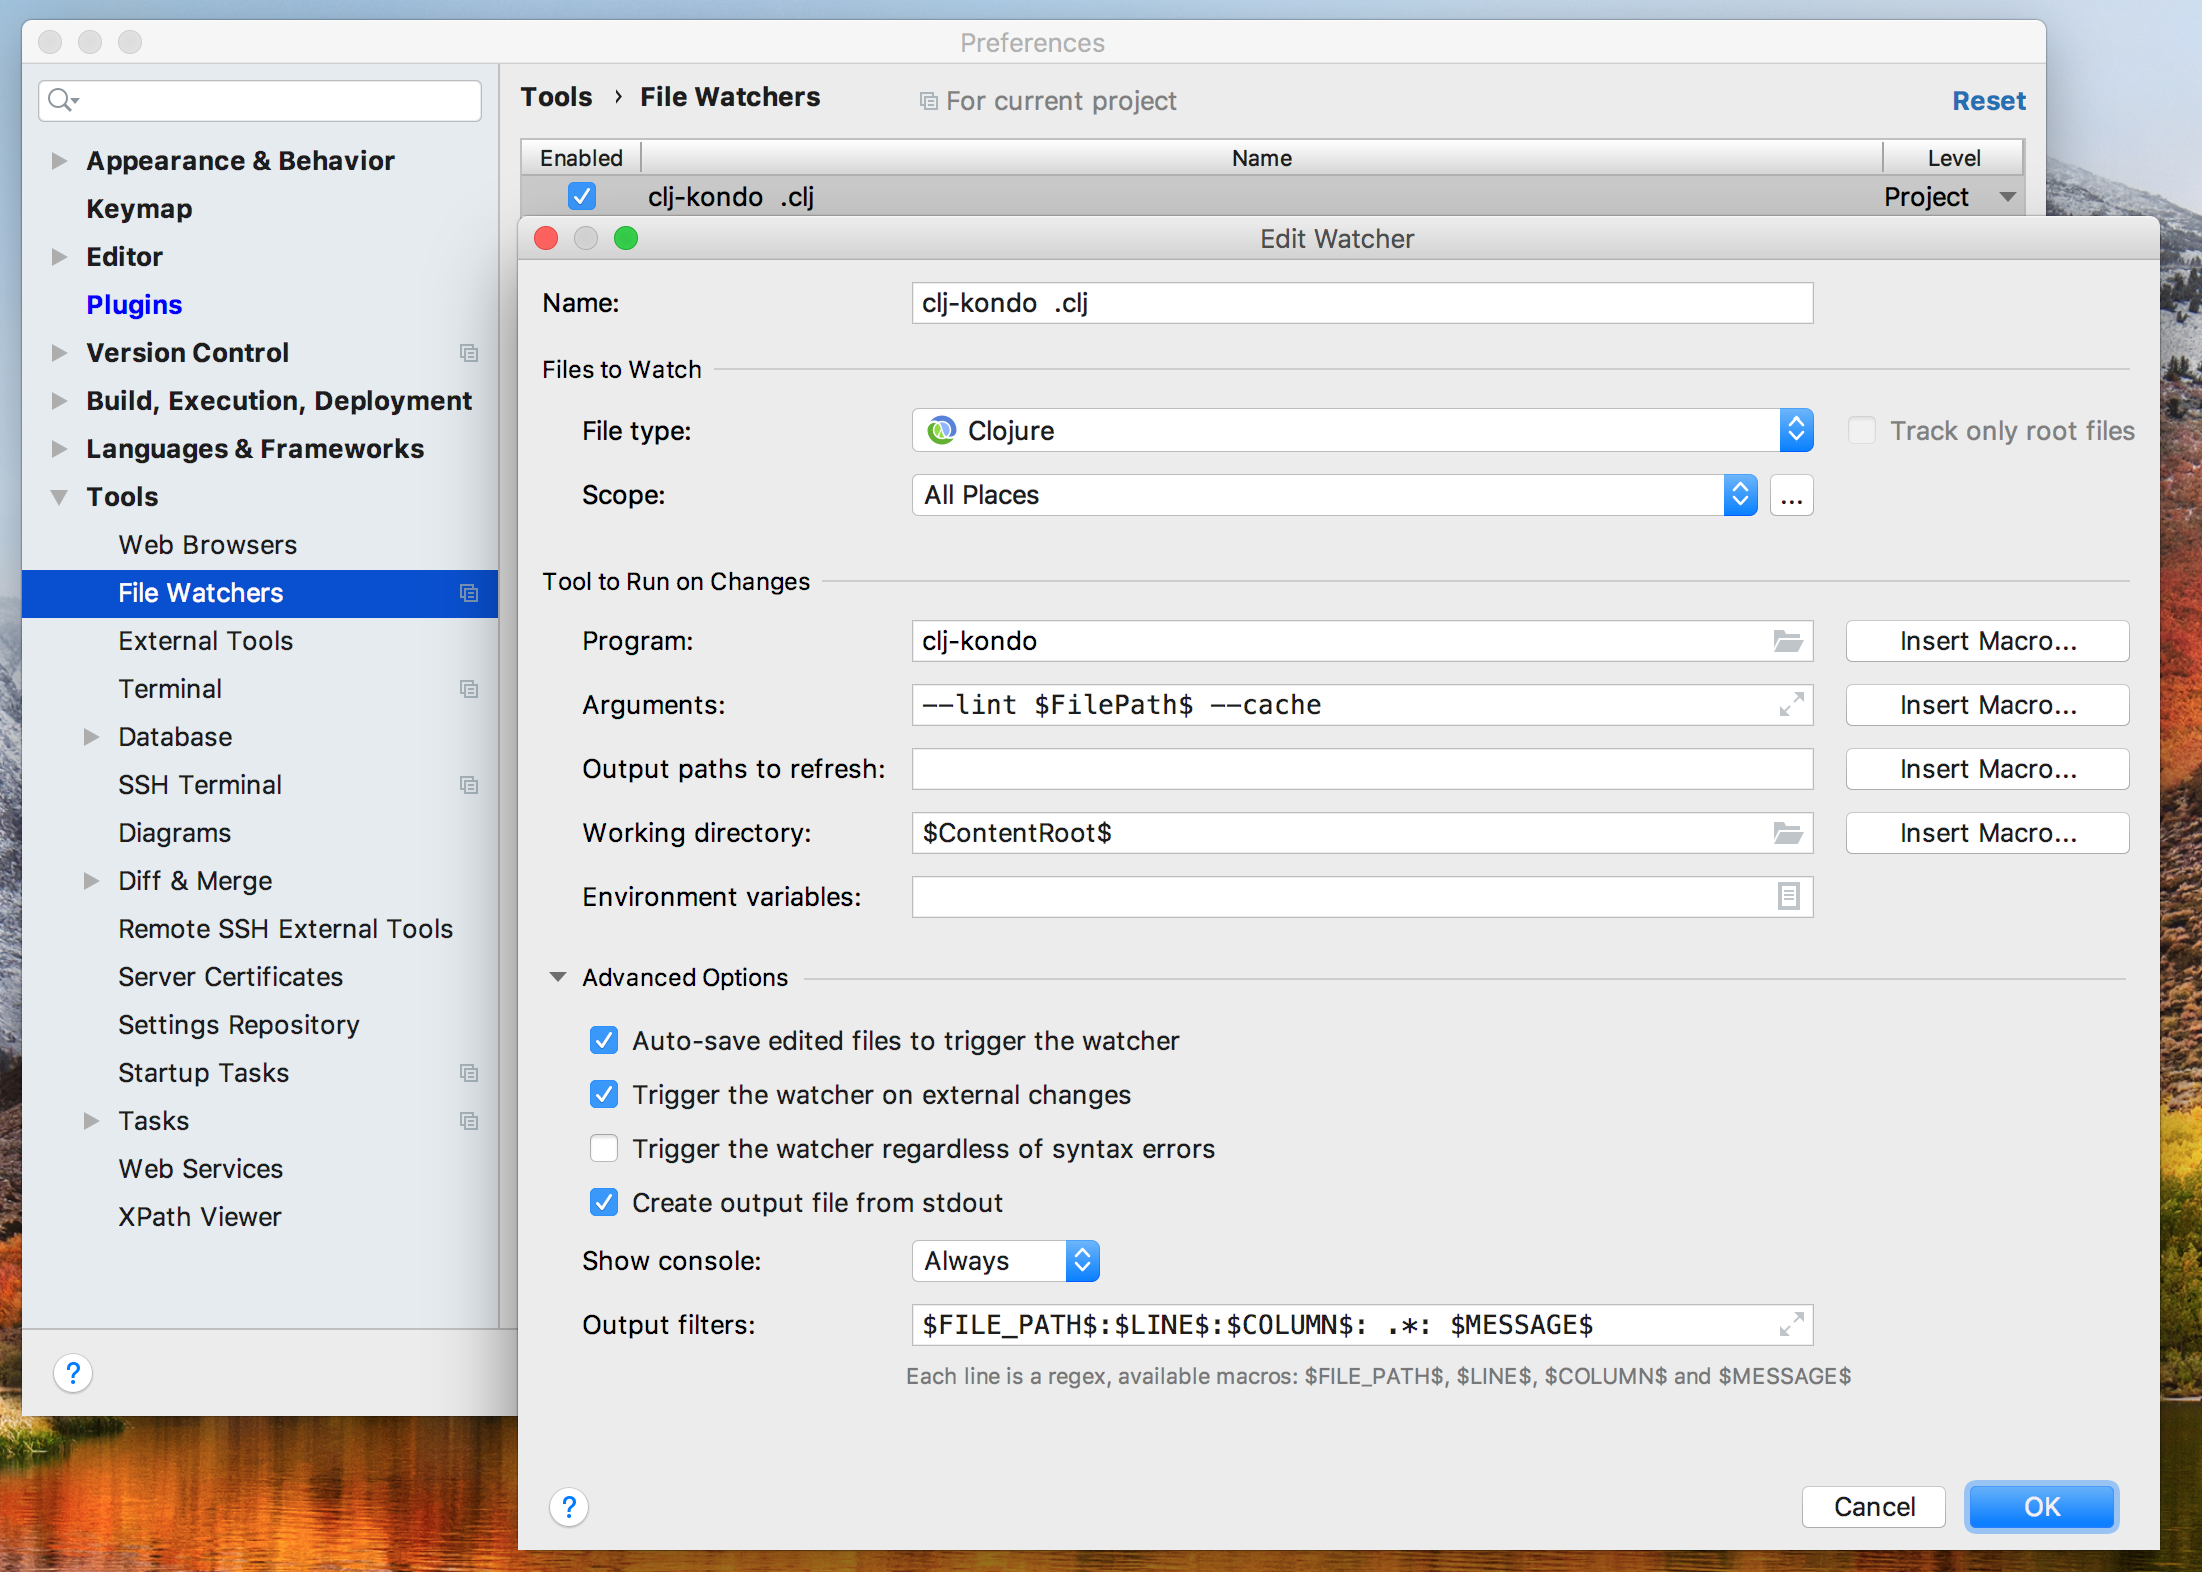
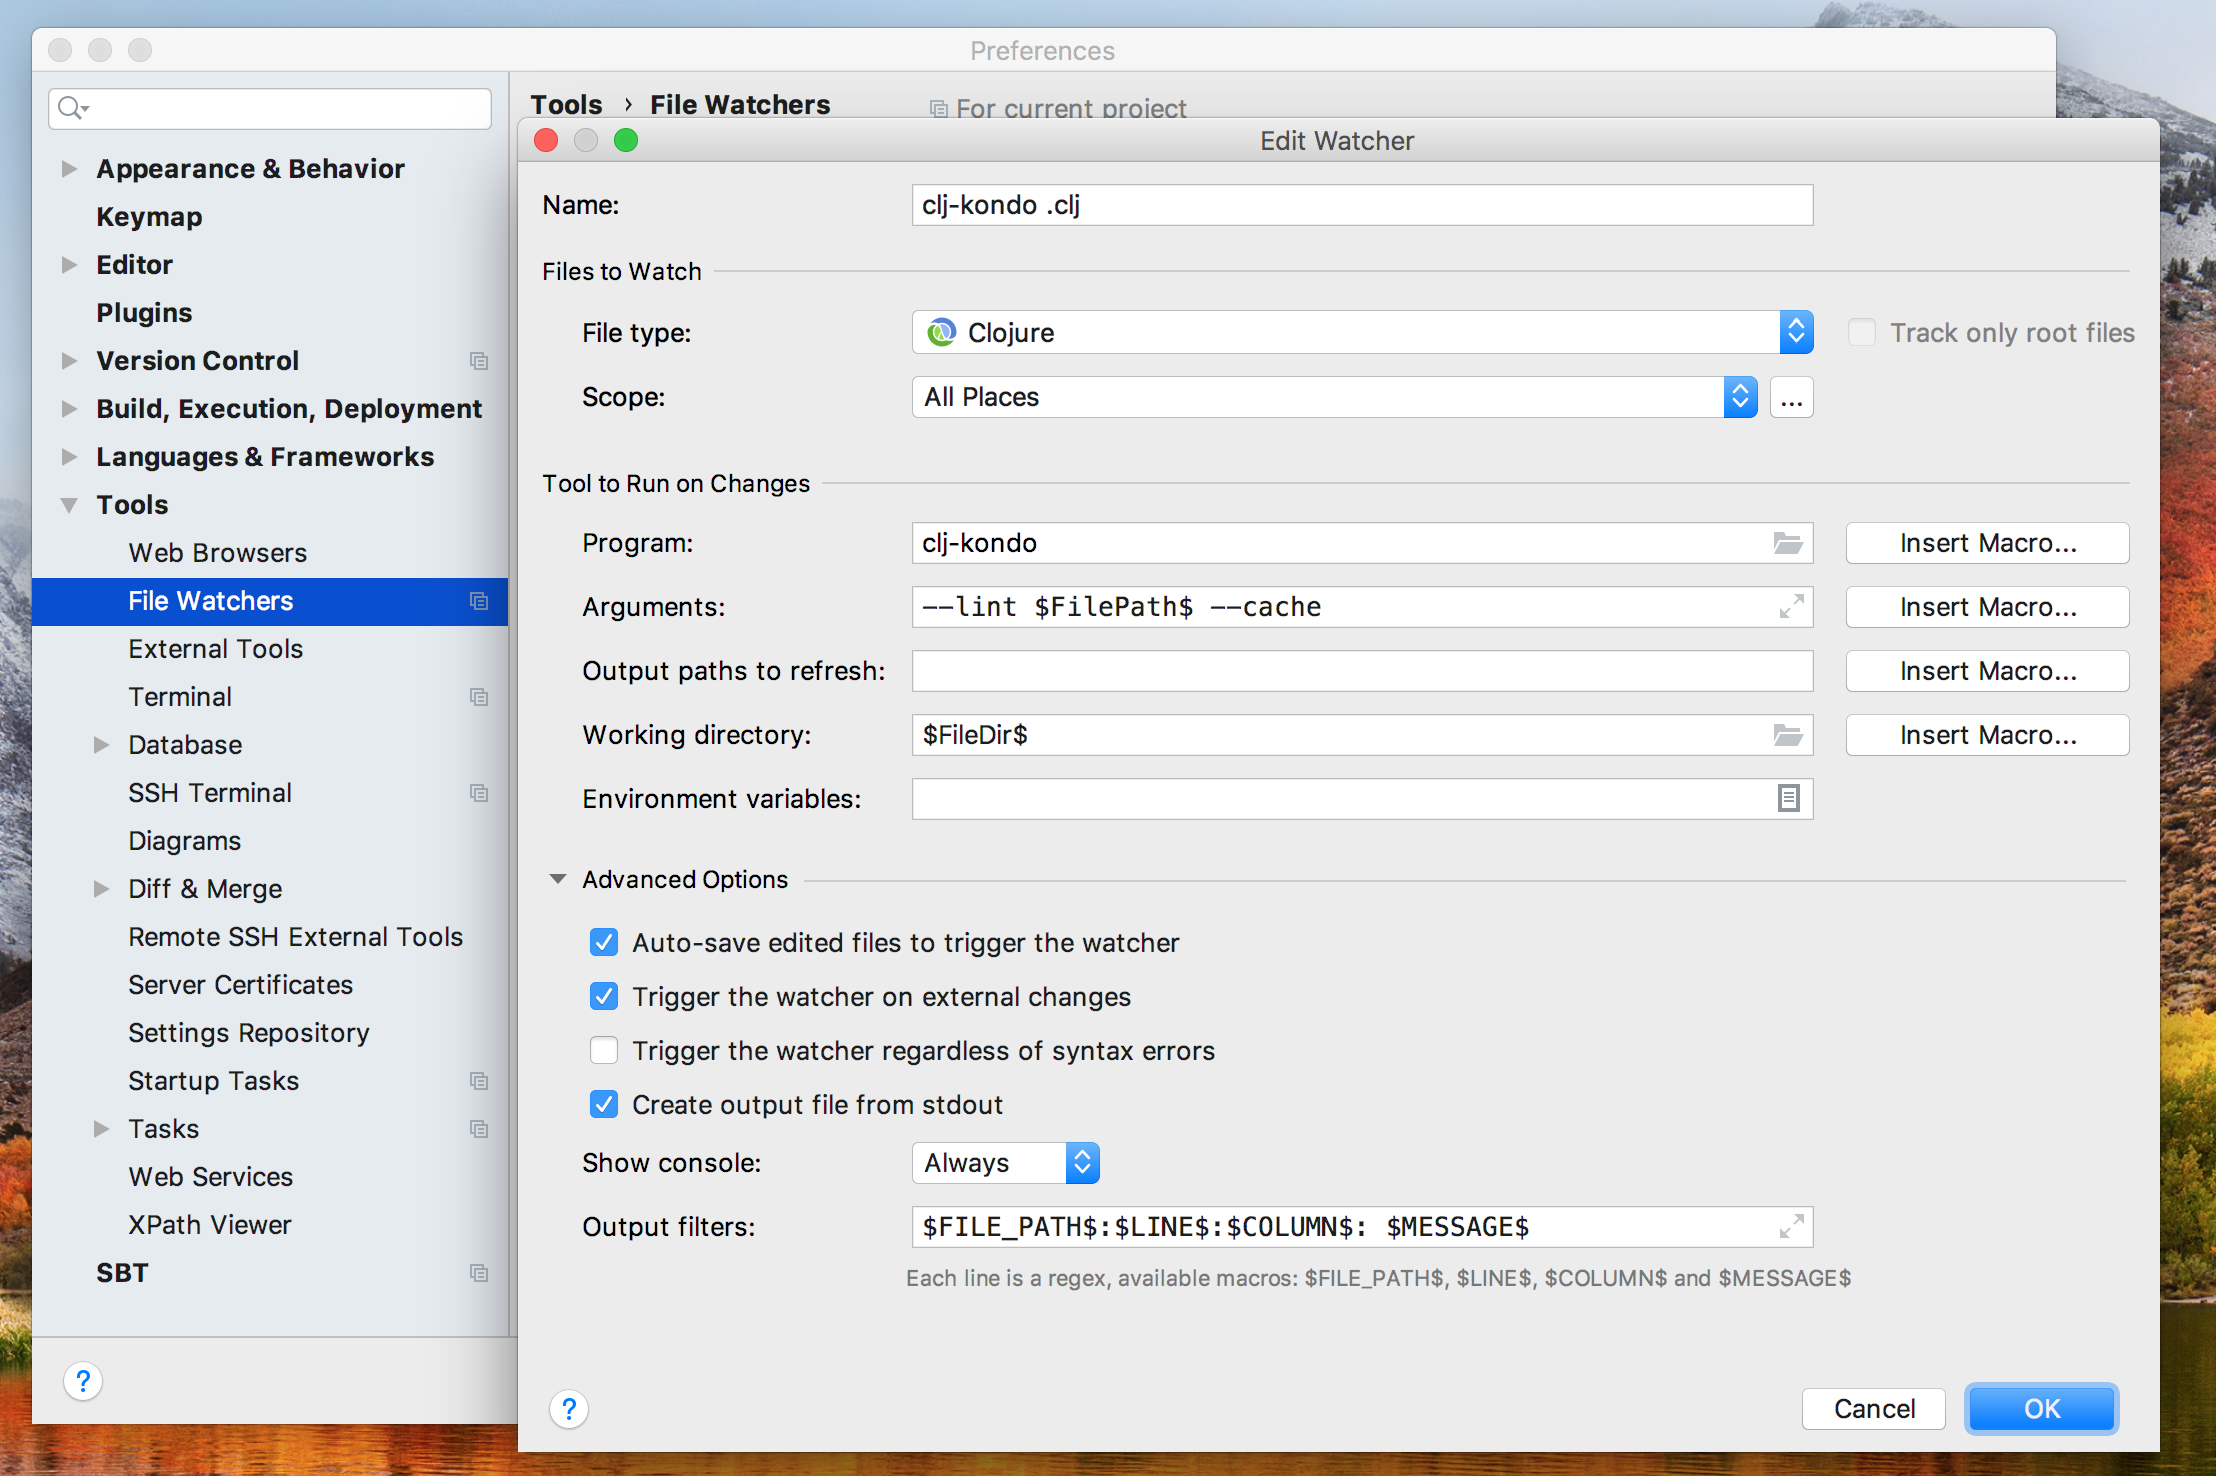
minor improvements

Changed region(s): [[0.0, 0.0, 1.0, 1.0], [0.3706, 0.9661, 0.525, 1.0]]

diff --git a/doc/editor-integration.md b/doc/editor-integration.md
@@ -1,7 +1,8 @@
 # Editor integration
 
-Before setting up your editor, read [Project setup](../README.md#project-setup)
-to configure the cache for your project.
+Before setting up your editor, see [Project setup](../README.md#project-setup)
+on how to configure `clj-kondo` for your project. TL;DR: this involves creating
+a `.clj-kondo` directory in the root of your project.
 
 ## Emacs
 
@@ -10,18 +11,27 @@ For integrating with Emacs, see
 
 ## IntelliJ IDEA
 
+<img src="../screenshots/intellij-let.png" width="50%" align="right">
+
+This section assumes that you are already using
+[Cursive](https://cursive-ide.com).
+
 1. Install the [File
 Watchers](https://www.jetbrains.com/help/idea/settings-tools-file-watchers.html)
 plugin.
-2. Under Preferences / Tools / File Watchers click `+` and choose the `<custom>` template.
-3. Choose a name. E.g. `clj-kondo .clj`.
-4. Choose the filetype Clojure.
+
+Repeat the below steps for the file types Clojure (`.clj`), ClojureScript (`.cljs`)
+and CLJC (`.cljc`).
+
+2. Under Preferences / Tools / File Watchers click `+` and choose the `<custom>`
+   template.
+3. Choose a name. E.g. `clj-kondo <filetype>` (where `<filetype>` is one of
+   Clojure, ClojureScript or CLJC).
+4. In the File type field, choose the correct filetype.
 5. In the Program field, type `clj-kondo`.
 6. In the Arguments field, type `--lint $FilePath$ --cache`.
-7. In the Working directory field, type `$ContentRoot$` which is the root of this project, the same directory in which your `.clj-kondo` directory resides.
+7. In the Working directory field, type `$FileDir$`.
 8. Enable `Create output file from stdout`
-9. In output filters put `$FILE_PATH$:$LINE$:$COLUMN$: .*: $MESSAGE$`.
-
-Repeat steps 2-9 for the file types ClojureScript and CLJC.
+9. In output filters put `$FILE_PATH$:$LINE$:$COLUMN$: $MESSAGE$`.
 
 <img src="../screenshots/intellij-fw-config.png" align="right">

diff --git a/README.md b/README.md
@@ -137,6 +137,13 @@ clj-kondo is informed about new functions you just wrote.
 
 All other error codes indicate an unexpected error.
 
+## Limitations
+
+This tool uses static analysis on your source code. Therefore it cannot detect
+all of the issues that a runtime linter can. This tool is written in Clojure and
+compiles to native code using GraalVM. Any library that is problematic with
+GraalVM can therefore not be used in this project.
+
 ## Tests
 
     script/test
